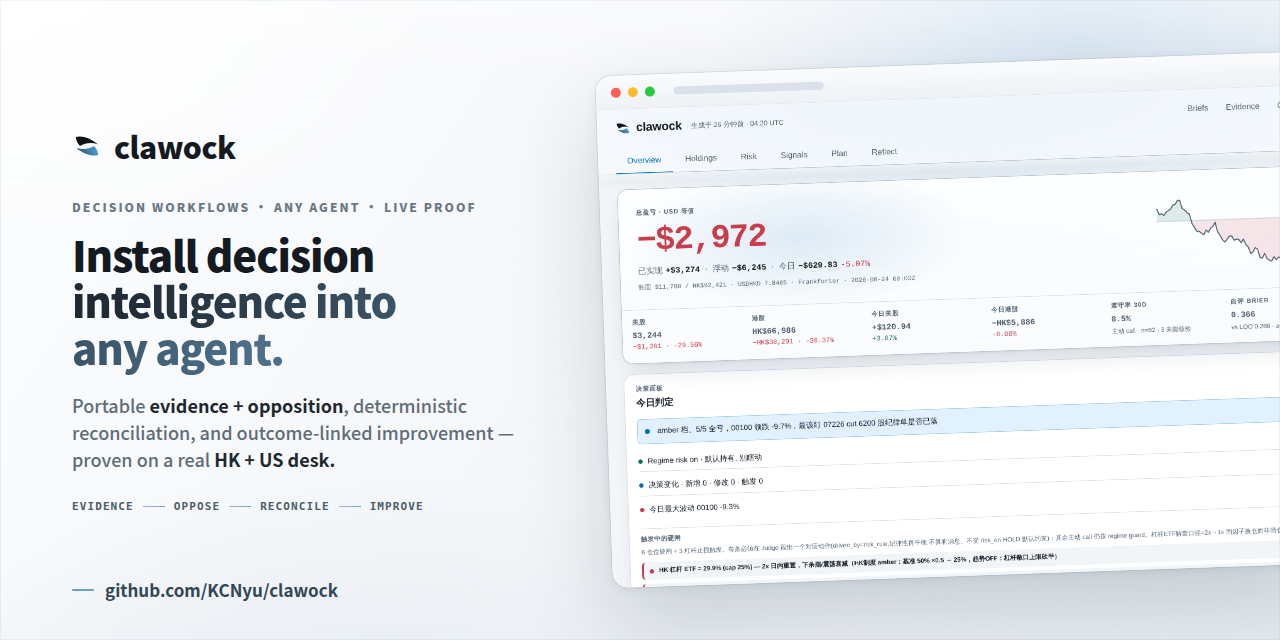
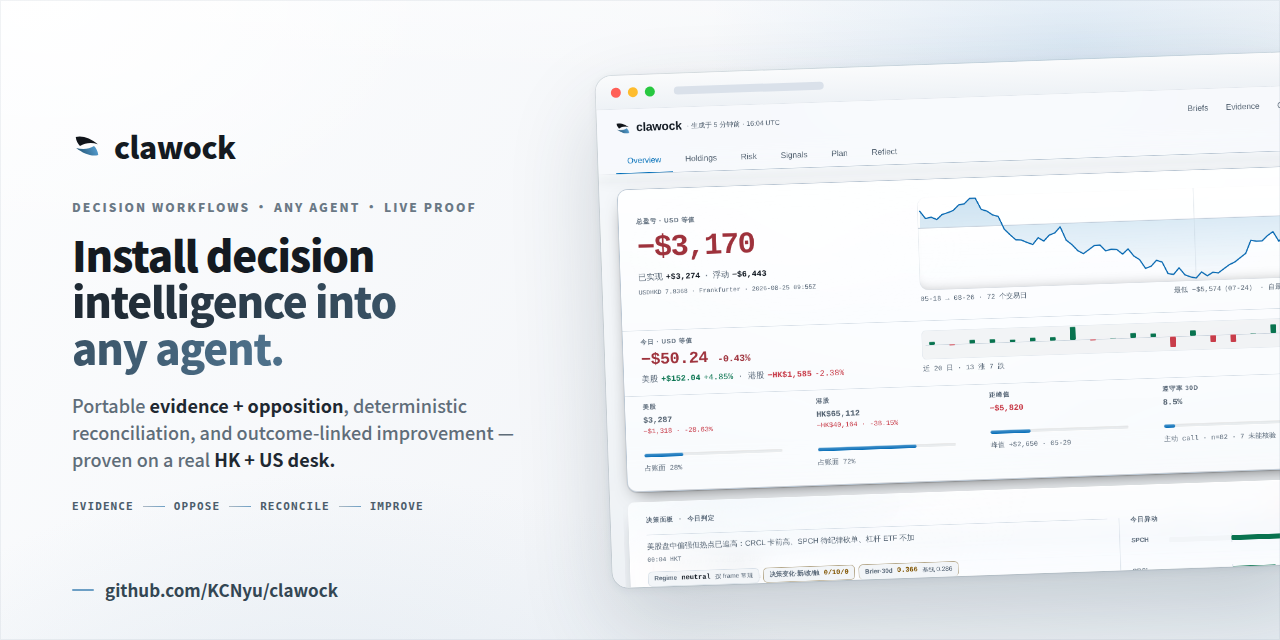
readme: 重拍 social card / GIF / 战绩图，刷新战绩数字，修「bilingual briefs」失真（#1013） (#1027)
Closes #1013

kcn：「全面的 readme 刷新，就是更新 social card gif 那些」。

## 资产重拍

`site/tools/shoot_dashboard.js` 抓的是**线上 Pages**，而线上此刻已经是今天合并的新首屏（判定牌双栏 +
异动横条 + 数据健康点名），所以卡里就是最新形态：

| 资产 | 变化 |
|---|---|
| `social-card.png` | 1200×760 首屏就是卡的内容 —— 首屏一改，卡就旧了（这条是既定链路） |
| `dashboard.gif` | 6 个 tab × 6 帧重拍后合成，72 帧 / 8.6MB（比旧版还小一点） |
| `shadow-backtest.png` | 重跑后**逐字节相同** —— 同一份数据画出同一张图，没有假 diff |

## 战绩数字

`ops/growth/refresh_readme_metrics.py` 读实盘账本重算，改的是 README.zh.md 里的
`CW_M` 占位符：

- 99 天 → **100 天**
- 701 → **711** 条决策记录
- −19.82% → **−21.13%**（实盘，已实现 + 浮动）
- unknown 30 → **40**

EN 侧按「静态文案不引用会变的数字」的既定规矩，仍然只指向实时页面，不硬写数字 —— 所以它这次没有数字要改。

## #1013：bilingual briefs 失真

`README.md:81`「Scheduled … produce **bilingual**
briefs」——简报只有中文（`site/briefs.md` 与 `memory/*-pre-open.md` 全中文），bilingual
指的是**数据源覆盖**（EN:99 与信息层第 4 层那两处用法是对的，保留）。

顺手修同一失真的**第二个载体**：`site/llms.txt:21`「published morning reads
(bilingual)」——issue 只点了 README，但同一句话在这里也写着，改成「Chinese; the bilingual
part is the data coverage behind them」。ZH README 无此声明，不用改。

## 闸

`readme_parity` / `readme_renders_off_github` /
`information_layer_taxonomy` / `site_deploy` / `site_internal_links` /
`claim_provenance`：**41 passed**。

diff --git a/README.md b/README.md
@@ -78,7 +78,7 @@ broker, and the same script CI executes against every published wheel:
 - **The model can't grade itself.** LLMs propose trades; Python settles them and computes the scorecard.
 - **One thesis, one episode.** Repeated opinions on the same thesis count once. Each episode is settled from canonical vendor bars, with declared gap-fill rules when a session is missing.
 - **The ledger has to reconcile.** A money-conservation check runs before every push; if cash, positions, and P&L don't balance, nothing is published.
-- **Built to keep running.** Scheduled Hong Kong and US sessions produce bilingual briefs and refresh the live dashboard through the trading day.
+- **Built to keep running.** Scheduled Hong Kong and US sessions produce the daily briefs and refresh the live dashboard through the trading day.
 
 ## How it works
 
